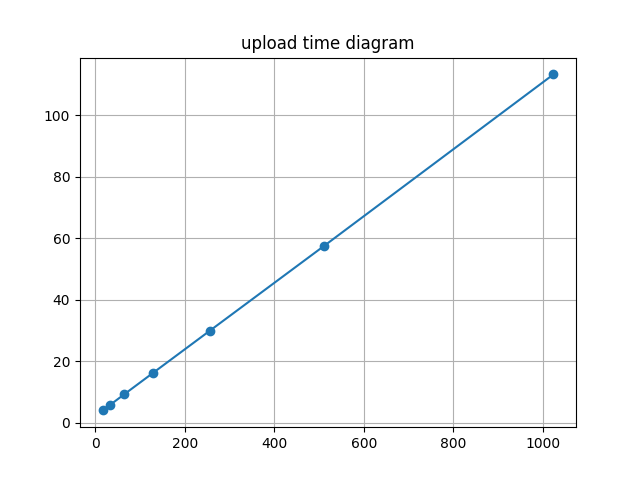
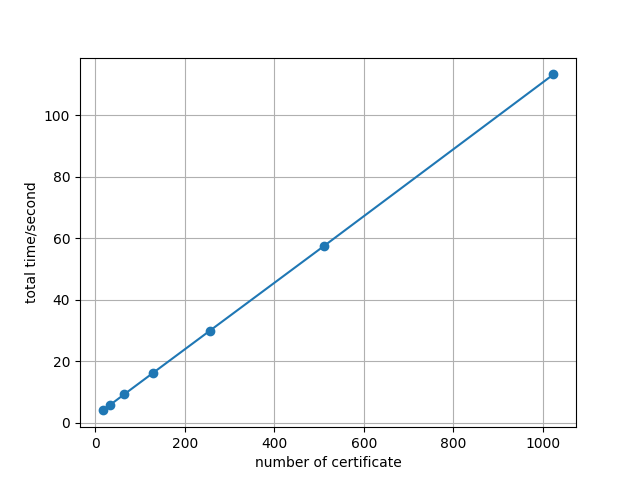
debug test and update plot

Changed region(s): [[0.375, 0.0625, 0.6562, 0.125], [0.4062, 0.9375, 0.625, 1.0], [0.0312, 0.375, 0.0625, 0.625]]

diff --git a/testCreateAndUpload.py b/testCreateAndUpload.py
@@ -20,7 +20,7 @@ DSN = json.loads(open('config.json', "r").read())
 
 ######### configure test ############
 TRIALNUM = 1
-SIZEARRAY = [4,5,6,7,8,9,10]
+SIZEARRAY = [4, 5, 6, 7, 8, 9, 10]
 ######### configure test ############
 
 ######### ask host to provide ip ############
@@ -39,12 +39,6 @@ URL_CREATE_ASSET = "http://"+IP_ADDRESS+":8080/CreateAsset"
 URL_UPLOAD_ASSET = "http://"+IP_ADDRESS+":8080/Upload"
 URL_VERIFY_ASSET = "http://"+IP_ADDRESS+":8081/VerifyPath"
 
-
-db = MySQLdb.connect(DSN["ip"],
-                        DSN["name"],
-                        DSN["pwd"],
-                        DSN["db"],
-                        charset=DSN["charset"])
 
 def setup_logger(logger_name, log_file, level=logging.INFO):
 
@@ -115,6 +109,11 @@ def create_random_input():
 
 
 def readRow(id):
+    db = MySQLdb.connect(DSN["ip"],
+                         DSN["name"],
+                         DSN["pwd"],
+                         DSN["db"],
+                         charset=DSN["charset"])
 
     cursor = db.cursor()
 
@@ -127,6 +126,7 @@ def readRow(id):
             globalRootID = row[1]
             merkleTreePath = ast.literal_eval(row[2])
             merkleTreeIndexes = ast.literal_eval(row[3])
+            db.close()
 
             return {"MKT": {"GlobalRootID": globalRootID,
                             "Path": merkleTreePath,
@@ -135,6 +135,8 @@ def readRow(id):
                     "CertID": certID
                     }
     except:
+        db.close()
+
         traceback.print_exc()
         return
 
@@ -193,7 +195,9 @@ def main():
         for testNo in range(testSizeArray):
             personSysID = inputInfoArray[testNo]["CertDetail"]["PersonSysID"]
             result = readRow(personSysID)
+
             VerifyPath = result["MKT"]
+
             certID = result["CertID"]
             payload = {
                 "VerifyInputInfo": inputInfoArray[testNo],
@@ -218,7 +222,6 @@ def main():
             log_verify.info(
                 "n = %d. The average for verify is %f", size, avg)
 
-    db.close()
 
 if __name__ == "__main__":
     main()

diff --git a/plot.py b/plot.py
@@ -41,20 +41,30 @@ upload_log.close()
 verify_log.close()
 
 
-plt.title("issuing time diagram")
+# plt.title("issuing time diagram")
+plt.ylabel("time per certificate/second")
+plt.xlabel("number of certificate")
 plt.plot(x, e2e_time, '-o')
 plt.grid()
 plt.savefig(FOLDER_PATH + "/issuing-time-diagram.png")
 plt.close()
 
-plt.title("upload time diagram")
+# plt.title("upload time diagram")
+plt.ylabel("total time/second")
+plt.xlabel("number of certificate")
 plt.plot(x, upload_time, '-o')
 plt.grid()
 plt.savefig(FOLDER_PATH + "/upload-time-diagram.png")
 plt.close()
 
-plt.title("verify time diagram")
+# plt.title("verify time diagram")
+plt.ylabel("time per certificate/second")
+plt.xlabel("number of certificate")
 plt.plot(x, verify_time, '-o')
 plt.grid()
 plt.savefig(FOLDER_PATH + "/verify-time-diagram.png")
 plt.close()
+
+
+#### 2.0 ~ 2.X  shrink it 
+#### 
